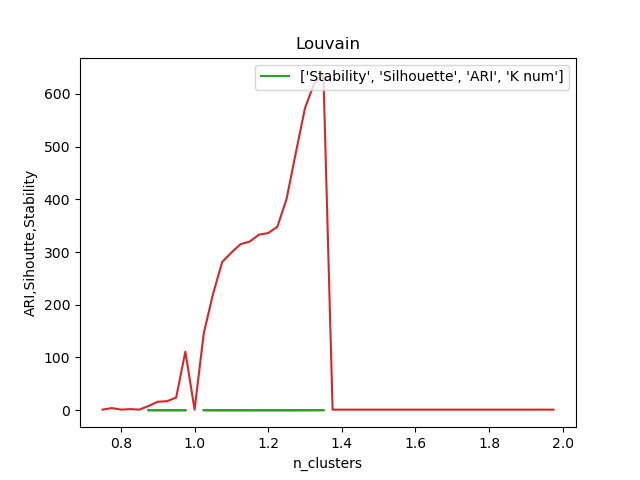
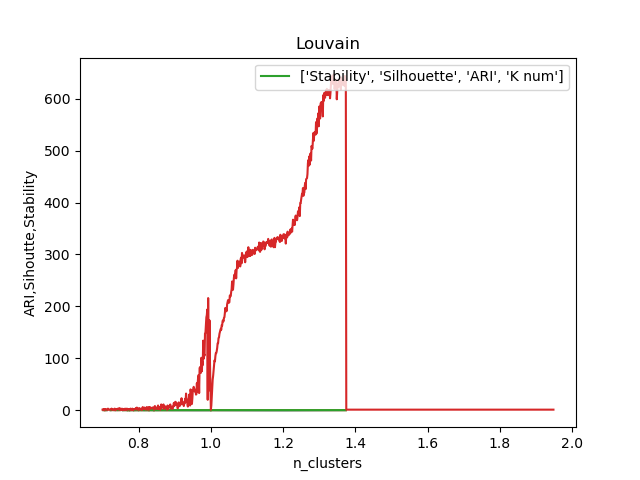
1

diff --git a/utilities/utils.py b/utilities/utils.py
@@ -1,14 +1,13 @@
+from matplotlib import pyplot as plt
+from sklearn.metrics import silhouette_score
+from sklearn.utils import check_random_state
+from sklearn.base import clone
 import os
 import csv
 import sys
 import numpy as np
 from sklearn.metrics import adjusted_rand_score as ARI
 rng = np.random.RandomState(1)
-from sklearn.base import clone
-from sklearn.utils import check_random_state
-from sklearn.metrics import silhouette_score
-from matplotlib import pyplot as plt
-
 
 
 def cluster_stability(X, est, n_iter=10, random_state=None, pt_only=False):
@@ -125,40 +124,57 @@ def clustering(X, est):
     return label
 
 
+def time_bar(progress):
+    sys.stdout.write('\r')
+    prog_int = int(progress*50)
+    sys.stdout.write('\t\t[%s%s] %.2f%%' %
+                     ('='*prog_int, ' '*(50-prog_int), progress*100))
+    sys.stdout.flush()
 
-def eval_K(X, k_min, k_max, filename, est, title, pt_only=False,stride=1,get_k_num=False):
-    
+
+def eval_K(X, k_min, k_max, filename, est, title, pt_only=False, stride=1, get_k_num=False):
+
     silhouette_y = []
     ari_y = []
     stability_y = []
-    k_num_y=[]
+    k_num_y = []
 
-    for k in np.arange(k_min, k_max+1,stride):
+    for k in np.arange(k_min, k_max, stride):
         sk = est(k)
         label = clustering(X, sk)
-        if sk.k_num==1 or sk.k_num==len(X["pt_nc_img"]):
+        if sk.k_num == 1 or sk.k_num == len(X["pt_nc_img"]):
             silhouette_y.append(np.nan)
             ari_y.append(np.nan)
             stability_y.append(np.nan)
             k_num_y.append(1)
             continue
-        #silhouette_score requires more than 1 cluster labels. 
+        # silhouette_score requires more than 1 cluster labels.
         silhouette_y.append(silhouette_score(sk.x_data, label))
         ari_y.append(ARI(label, sk.y_data))
         stability_y.append(cluster_stability(X, sk, pt_only=pt_only))
         k_num_y.append(sk.k_num)
+        time_bar((k-k_min)/(k_max-k_min))
 
-    x = np.arange(k_min, k_max+1, stride)
+    x = np.arange(k_min, k_max, stride)
     plt.title(title)
     plt.xlabel("n_clusters")
     plt.ylabel("ARI,Sihoutte,Stability")
-    si, = plt.plot(x, silhouette_y, label="Silhoutte")
-    ar, = plt.plot(x, ari_y, label="ARI")
-    st, = plt.plot(x, stability_y, label="Stability")
+
     if(get_k_num):
-        k_n,=plt.plot(x,k_num_y,label="K num")
-        plt.legend([st,si,ar,k_n],[["Stability", "Silhouette", "ARI","K num"]])
-    else:
+        plt.subplot(1, 2, 1)
+        si, = plt.plot(x, silhouette_y, label="Silhoutte")
+        ar, = plt.plot(x, ari_y, label="ARI")
+        st, = plt.plot(x, stability_y, label="Stability")
         plt.legend([st, si, ar], ["Stability", "Silhouette", "ARI"])
+
+        plt.subplot(1, 2, 2)
+        k_n, = plt.plot(x, k_num_y, label="K num")
+        plt.legend([k_n], ["K num"])
+    else:
+        si, = plt.plot(x, silhouette_y, label="Silhoutte")
+        ar, = plt.plot(x, ari_y, label="ARI")
+        st, = plt.plot(x, stability_y, label="Stability")
+        plt.legend([st, si, ar], ["Stability", "Silhouette", "ARI"])
+
     plt.savefig(filename)
     plt.clf()

diff --git a/main.py b/main.py
@@ -175,7 +175,7 @@ def test_Bayesian():
     true_label = np.append(
         np.zeros(500), np.append(np.ones(250), np.ones(250)*2))
     pt_nc_img, pt_nc_cov, ID, group = utl.get_data(
-        simulated_data1, decimals=3)
+        simulated_data1)
     X = {}
     X["group"] = group
     X["pt_nc_img"] = pt_nc_img
@@ -183,8 +183,8 @@ def test_Bayesian():
     X["pt_ID"] = ID
     X["len"] = 1000
     X["true_label"] = true_label
-    utl.eval_K(X, 0.05, 1, cwd_path+"/"+name+"/output/"+name+".png",
-               BayesianClusterer, name,stride=0.05,get_k_num=True)
+    utl.eval_K(X, 0.1, 0.5, cwd_path+"/"+name+"/output/"+name+".png",
+               BayesianClusterer, name,stride=0.1,get_k_num=True)
 
     return
 
@@ -203,8 +203,8 @@ def test_louvain():
     X["pt_ID"] = ID
     X["len"] = 1000
     X["true_label"] = true_label
-    utl.eval_K(X, 0.7, 0.95, cwd_path+"/"+name+"/output/"+name+".png",
-               LouvainClusterer, name,stride=0.00125,get_k_num=True)
+    utl.eval_K(X, 0.8, 0.88, cwd_path+"/"+name+"/output/"+name+".png",
+               LouvainClusterer, name,stride=0.005,get_k_num=True)
 
 
 
@@ -237,8 +237,9 @@ if __name__ == "__main__":
     # test_urf()
     # test_hierachical()
     # test_K_medians()
+    # test_louvain()
     test_Bayesian()
-    #test_louvain()
+    
     
     
     
